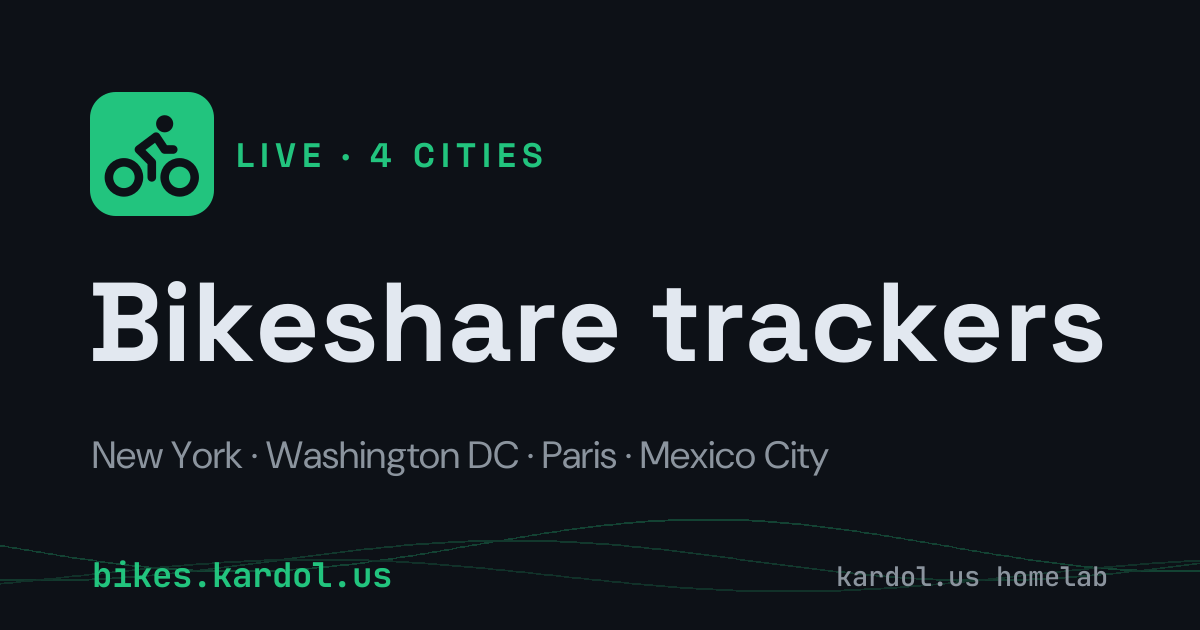
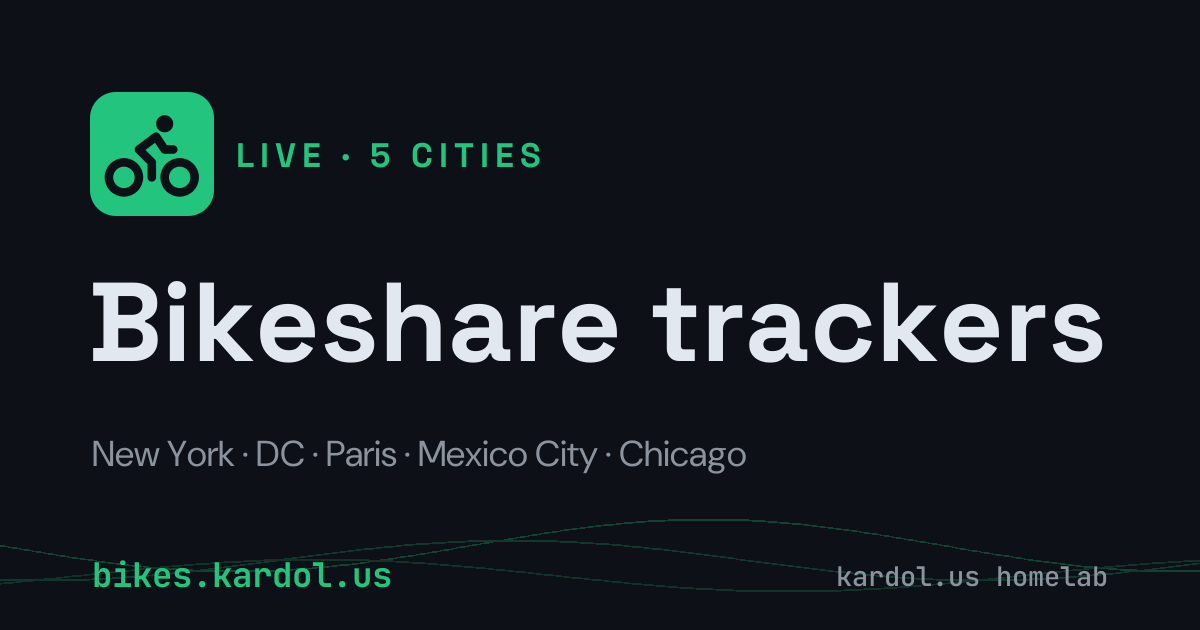
feat(hub): add Divvy (Chicago) as the fifth city
Adds the Chicago card, refreshes the meta description + OG card to read five
systems (New York, DC, Paris, Mexico City, Chicago).

Changed region(s): [[0.0925, 0.6937, 0.7092, 0.754], [0.3083, 0.2111, 0.4625, 0.2714]]

diff --git a/app.py b/app.py
@@ -24,6 +24,8 @@ CITIES = [
      "domain": "velib.kardol.us", "svc": "http://velib-web.velib.svc.cluster.local:8000"},
     {"slug": "cdmx", "brand": "Ecobici", "city": "Mexico City", "flag": "🌮",
      "domain": "ecobici.kardol.us", "svc": "http://ecobici-web.ecobici.svc.cluster.local:8000"},
+    {"slug": "chicago", "brand": "Divvy", "city": "Chicago", "flag": "🌆",
+     "domain": "divvy.kardol.us", "svc": "http://divvy-web.divvy.svc.cluster.local:8000"},
 ]
 
 FAVICON = (
@@ -74,7 +76,7 @@ async def home(request):
 <meta charset="utf-8"><meta name="viewport" content="width=device-width, initial-scale=1">
 <title>Bikeshare trackers · live dock availability</title>
 <link rel="icon" type="image/svg+xml" href="/favicon.svg">
-<meta name="description" content="Live bikeshare dock availability and 90-day patterns across New York, Washington DC, Paris and Mexico City.">
+<meta name="description" content="Live bikeshare dock availability and 90-day patterns across New York, Washington DC, Paris, Mexico City and Chicago.">
 <meta property="og:title" content="Bikeshare trackers">
 <meta property="og:description" content="Live dock availability across New York, Washington DC, Paris & Mexico City.">
 <meta property="og:type" content="website">